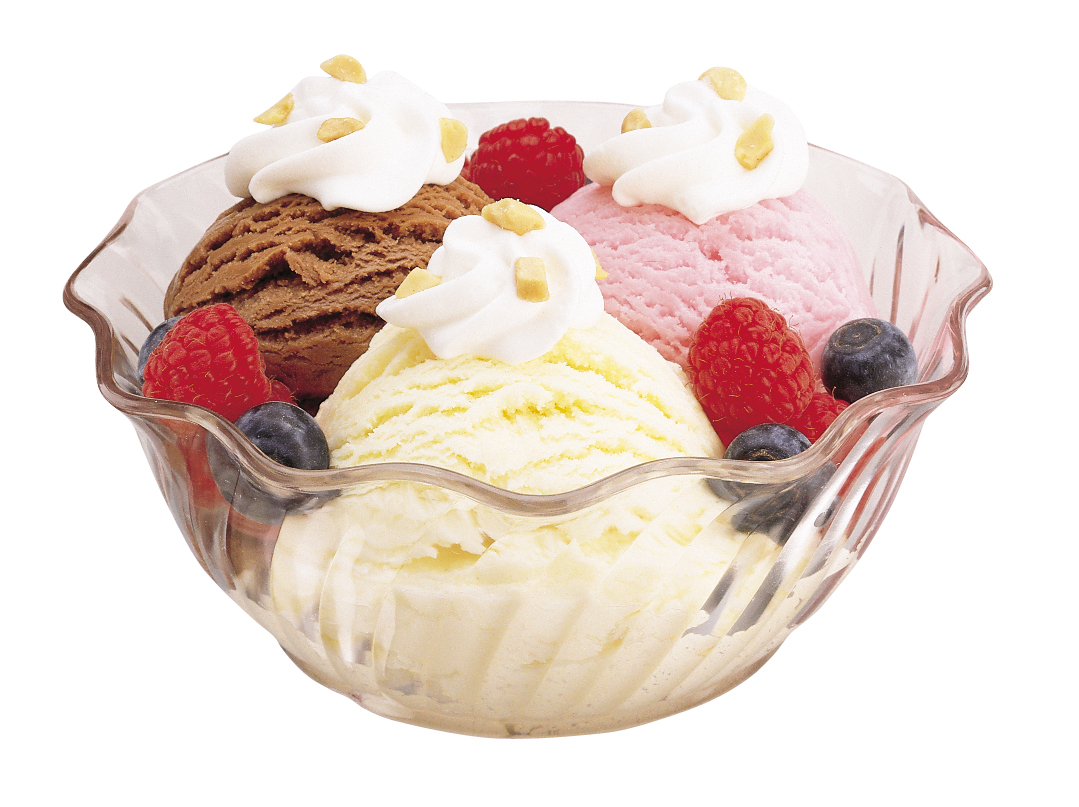
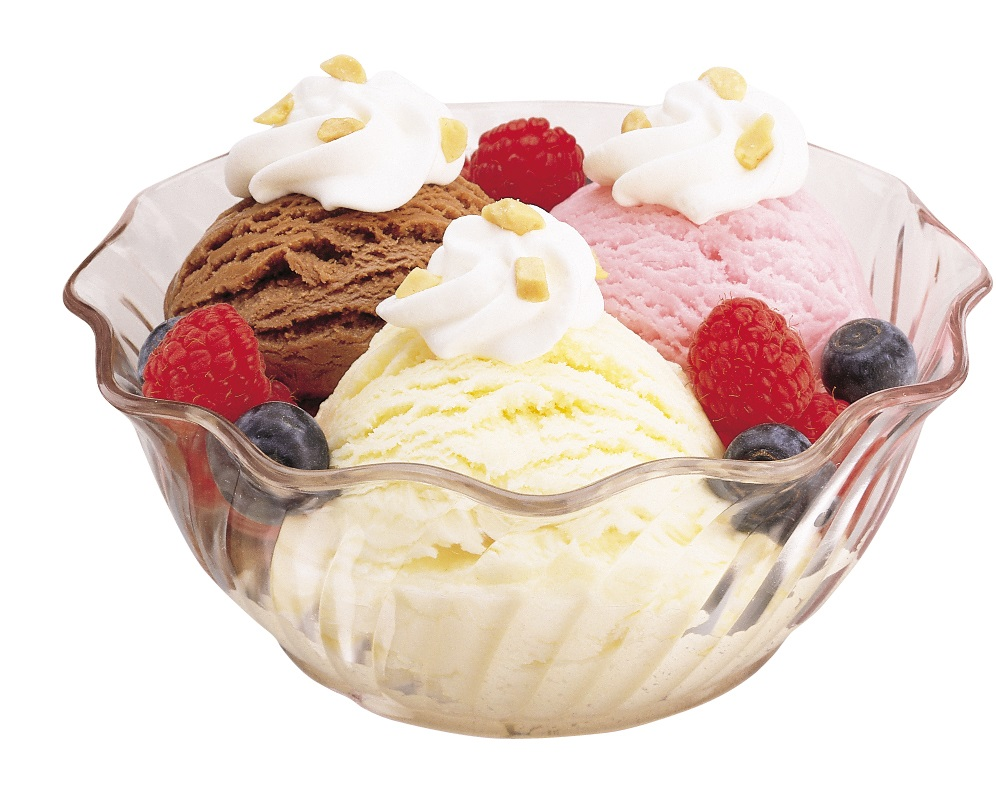
media query's almost done

diff --git a/src/components/menu/menu.js b/src/components/menu/menu.js
@@ -41,22 +41,22 @@ export const Menu = () => {
                         justifyContent: 'center',
                     }}>
 
-                        <div className="Waffle" style={{marginRight:'30PX'}}>
-                            <img src={Waffle} style={{ width: '100px'}}></img>
+                        <div className="Waffle">
+                            <img src={Waffle} style={{ maxWidth: '100px'}}></img>
                             <h4 style={{ marginBottom: '60' }}>Waffle</h4>
                         </div>
                     
-                        <div className="Cake" style={{marginRight:'30PX'}}>
+                        <div className="Cake" >
                             <img src={Cake} style={{maxWidth: '100px'}}></img>
                             <h4 style={{marginBottom: '60'}}>Sugar</h4>
                         </div>
 
-                        <div className="Chococone" style={{marginRight:'30PX'}}>
+                        <div className="Chococone">
                             <img src={chococone} style={{maxWidth: '90px'}}></img>
                             <h4 style={{marginBottom: '60'}}>Chocolate-Dipped</h4>
                         </div>
 
-                        <div className="bowl" style={{marginRight:'30PX'}}>
+                        <div className="bowl" >
                             <img src={bowl} style={{maxWidth: '180px'}}></img>
                             <h4 style={{marginBottom: '60'}}>Bowl</h4>
                         </div>
@@ -76,33 +76,33 @@ export const Menu = () => {
                         justifyContent: 'center',
                     }}>
 
-                    <div className="Chocoscoop" style={{marginRight:'30PX'}}>
+                    <div className="Chocoscoop">
                         <img src={Chocoscoop} style={{maxWidth: '200px'}}></img>
                         <h4 style={{marginBottom: '60'}}>Chocolate</h4>
                     </div>
 
-                    <div className="Vanilla" style={{marginRight:'30PX'}}>
+                    <div className="Vanilla">
                         <img src={Vanilla} style={{maxWidth: '190px'}}></img>
                         <h4 style={{marginBottom: '60'}}>Vanilla</h4>
                     </div>
                     
-                    <div className="Strawberry" style={{marginRight:'30PX'}}>
+                    <div className="Strawberry">
                         <img src={Strawberry} style={{maxWidth: '200px'}}></img>
                         <h4 style={{marginBottom: '60'}}>Strawberry</h4>
                     </div>
 
-                    <div className="Coffee" style={{marginRight:'30PX'}}>
+                    <div className="Coffee">
                         <img src={Coffee} style={{maxWidth: '190px'}}></img>
                         <h4 style={{marginBottom: '60'}}>Coffee</h4>
                     </div>
                     
-                    <div className="Pistachio" style={{marginRight:'30PX'}}>
+                    <div className="Pistachio">
                         <img src={Pistachio} style={{maxWidth: '170px'}}></img>
                         <h4 style={{marginBottom: '60'}}>Pistachio</h4>
                     </div>
                          
                     
-                    <div className="CookieDough" style={{marginRight:'30PX'}}>
+                    <div className="CookieDough">
                         <img src={cookiedough} style={{maxWidth: '190px'}}></img>
                         <h4 style={{marginBottom: '60'}}>Cookie Dough</h4>
                     </div>
@@ -121,37 +121,37 @@ export const Menu = () => {
                         justifyContent: 'center',
                     }}>
 
-                    <div className="Chips" style={{marginRight:'30PX'}}>
+                    <div className="Chips" >
                         <img src={Chips} style={{maxWidth: '140px'}}></img>
                         <h4 style={{marginBottom: '60'}}>Chocolate Chips</h4>
                     </div>
                         
-                    <div className="Bananas" style={{marginRight:'30PX'}}>
+                    <div className="Bananas">
                         <img src={bananas} style={{maxWidth: '140px'}}></img>
                         <h4 style={{marginBottom: '60'}}>Sliced Bananas</h4>
                     </div>
                     
-                    <div className="Syrup" style={{marginRight:'30PX'}}>
+                    <div className="Syrup">
                         <img src={syrup} style={{maxWidth: '60px'}}></img>
                         <h4 style={{marginBottom: '60'}}>Chocolate Syrup</h4>
                     </div>
                         
-                    <div className="Oreos" style={{marginRight:'30PX'}}>
+                    <div className="Oreos">
                         <img src={Oreos} style={{maxWidth: '140px'}}></img>
                         <h4 style={{marginBottom: '60'}}>Oreos</h4>
                     </div>
     
-                    <div className="Strawberries" style={{marginRight:'30PX'}}>
+                    <div className="Strawberries">
                         <img src={Strawberries} style={{maxWidth: '140px'}}></img>
                         <h4 style={{marginBottom: '60'}}>Sliced Strawberries</h4>
                     </div>
                         
-                    <div className="Crackers" style={{marginRight:'30PX'}}>
+                    <div className="Crackers">
                         <img src={Crackers} style={{maxWidth: '140px'}}></img>
                         <h4 style={{marginBottom: '60'}}>Graham Crackers</h4>
                     </div>
                         
-                    <div className="Brownies" style={{marginRight:'30PX'}}>
+                    <div className="Brownies">
                         <img src={Brownies} style={{maxWidth: '140px'}}></img>
                         <h4 style={{marginBottom: '60'}}>Brownie Bites</h4>
                     </div>

diff --git a/src/App.css b/src/App.css
@@ -114,6 +114,18 @@ code {
   text-align: center;
 }
 
+.Cones div {
+  margin-right: 30px;
+}
+
+.Flavors div {
+  margin-right: 30px;
+}
+
+.Toppings div {
+  margin-right: 30px;
+}
+
 .orderButtonMenu {
   text-decoration: none;
   color: white;
@@ -139,6 +151,12 @@ code {
   display: flex;
   justify-content: center;
   flex-direction: column;
+  padding-top: 50px;
+  padding-bottom: 50px;
+  padding-right:200px;
+  padding-left:200px;
+  text-align: -webkit-center; 
+  width: '100%'
 }
 
 .orderContainer h1 {
@@ -267,51 +285,98 @@ code {
     display:  flex;
     flex-direction: row;
     flex-wrap: wrap;
+    margin-right: 0;
   }
   
   .menuContainer img {
-    max-width: 150px;
-    transition: all .2s ease-in-out;
-    
+    width: 80%;
+    transition: none;
   }
   
   .menuContainer img:hover{
-    transform: scale(1.1); 
+    transform: none;
   }
   
   .menuContainer h1{
     color: #FFB0B0;
     font-family: 'Oswald', sans-serif;
-    font-size: 40px;
+    font-size: 30px;
   }
   
   .menuContainer h4{
     color: #60e8f7;
     font-family: 'Oswald', sans-serif;
     margin-bottom: 65px;
+    font-size: 10px;
   
   }
   .Cones{
     text-align: center;
   }
+
+  .Cones div {
+    margin-right: 0;
+  }
+
+  .Cones img {
+    max-width: 50%;
+  }
+
+  .Flavors div {
+    margin-right: 0;
+  }
+
+  .Flavors img {
+    width: 40%;
+  }
+
+  .Toppings img {
+    width: 80%;
+  }
+
+  .Bananas {
+    margin-right: 10px;
+  }
   
   .orderButtonMenu {
-    text-decoration: none;
-    color: white;
-    background-color: #FF9797;
-    font-family: 'Oswald', sans-serif;
-    padding: 5px 15px 5px 15px;
-    border-radius: 5px;
-    border:1px white solid;
-    box-shadow: 3px 3px 3px 3px rgba(136, 136, 136, 0.211);
-    font-size: 25px;
-    margin-bottom: 100px;
+    display: none;
   }
   
   .orderButtonMenu:hover {
-    background-color: white;
-    color: #FF9797;
-    transition: color 0.5s, transform 0.2s, background-color 0.2s;
+    transition: none;
+  }
+
+  .orderContainer {
+    margin-top: 10px;
+    text-align: center;
+    display: flex;
+    justify-content: center;
+    flex-direction: column;
+    padding-top: 0px;
+    padding-bottom: 0px;
+    padding-right:0px;
+    padding-left:0px;
+    text-align: -webkit-center; 
+    width: 90%;
+  }
+
+  
+  .orderContainer h1 {
+    color: #FFB0B0;
+    font-family: 'Oswald', sans-serif;
+    margin-top: 30px;
+    font-size: 20px;;
+  }
+  
+  .orderContainer Input {
+    margin-bottom: 0px;
+    max-width: 80%;
+  }
+  
+  .checkbox {
+    display: grid;
+    grid-template-columns: 1fr 1fr;
+    font-size: 12px;
   }
   
 

diff --git a/src/components/order/order.js b/src/components/order/order.js
@@ -9,7 +9,7 @@ import Footer from '../footer/footer';
 
 export const OrderPost = () => {
 
-    const [postOrder, setPostOrder] = useState({Name: String,  flavors: String, toppings: String});
+    const [postOrder, setPostOrder] = useState({name: String,  flavors: String, toppings: String});
     const dispatch = useDispatch();
 
     const handleSubmit = async (e) => {
@@ -26,14 +26,14 @@ export const OrderPost = () => {
         <div>
             <Header />
 
-            <div className="orderContainer" style={{ paddingTop: '50px', paddingBottom: '50px',paddingRight:'200px', paddingLeft:'200px', textAlign: '-webkit-center', width: '100%'}} >
+            <div className="orderContainer" >
                 <FormGroup autoComplete="off" noValidate onSubmit={handleSubmit}>
                     <h1 className="ConeTitle" for="exampleSelect">Select Cone!</h1>
                     <Input
                         type="select"
                         name="Select Cone!"
                         id="exampleSelect"
-                        value={postOrder.Name}
+                        value={postOrder.name}
                         onChange={(e) => 
                             setPostOrder({
                                 ...postOrder, Name:e.target.value
